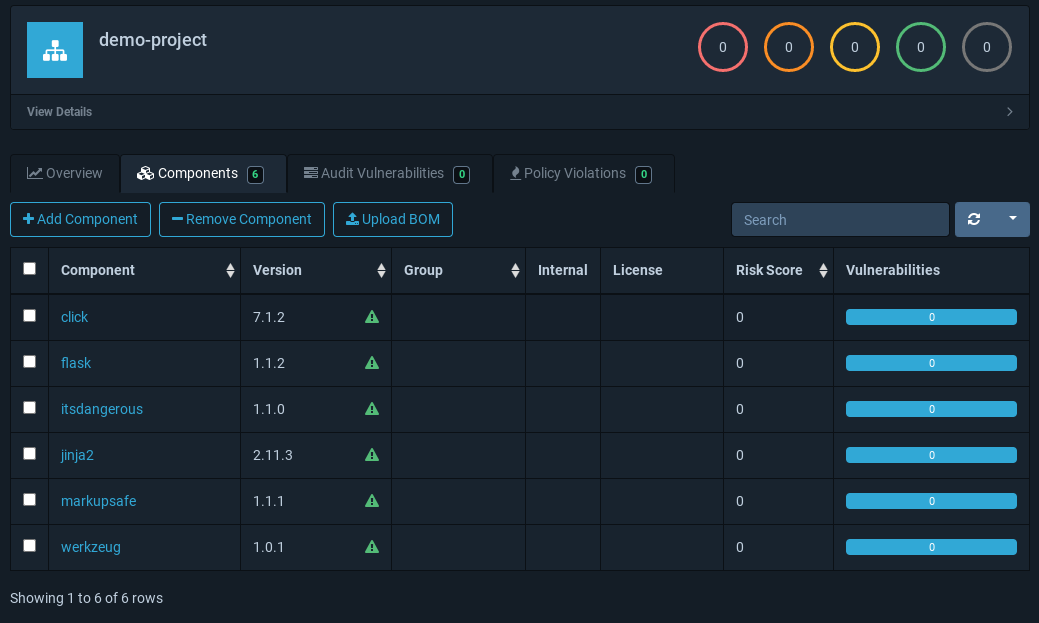
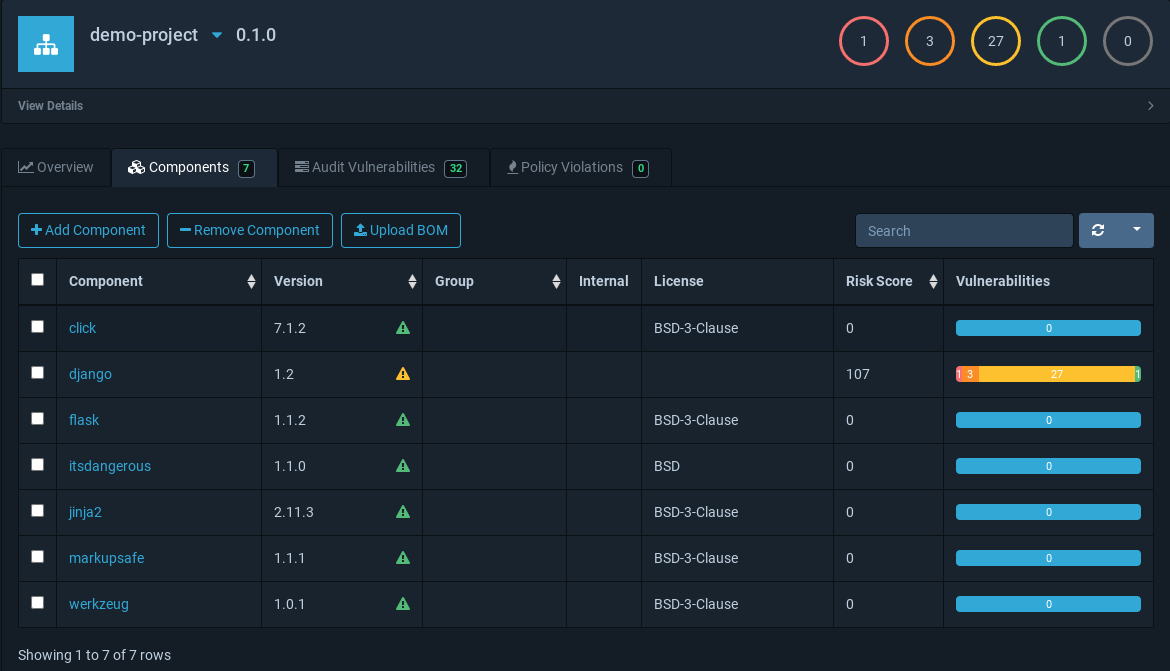
Improved the screenshots and refined the guide

diff --git a/tutorials/deploy-dependency-track/index.md b/tutorials/deploy-dependency-track/index.md
@@ -121,6 +121,7 @@ poetry install
 Now run `poetry show --tree` and you will see the project's set of dependencies (snippet below):
 
 ```
+django 1.2 A high-level Python Web framework that encourages rapid development and clean, pragmatic design.
 flask 1.1.2 A simple framework for building complex web applications.
 ├── click >=5.1
 ├── itsdangerous >=0.24
@@ -522,6 +523,11 @@ printf SET_DBUSER_PASSWORD_HERE | gcloud secrets create dependency-track-postgre
             --data-file=-
 ```
 
+__Note:__ _using the approach above is useful for this tutorial but placing a password
+on the command line is not best practice. Review the 
+[Creating and accessing secrets](https://cloud.google.com/secret-manager/docs/creating-and-accessing-secrets#secretmanager-add-secret-version-cli)
+guide for alternatives._
+
 We can now create the database server and associated user and database:
 
 ```bash
@@ -550,6 +556,9 @@ gcloud sql databases create dependency-track \
 # 4. We'll need the connection details in the kubernetes configuration
 export DT_DB_CONNECTION=$(gcloud sql instances describe $DT_DB_INSTANCE --format="value(connectionName)")
 ```
+
+__Note:__ _at time of writing, private IP for Cloud SQL is in beta and requires the
+`gcloud beta sql` call to access the functionality._
 
 The API Server will need the database user password so this is set up as a Kubernetes secret:
 
@@ -690,9 +699,22 @@ You can now click on the "Upload BOM" button and select the `bom.json` file for 
 
 When you return to the project screen you should see the components listed. If not,
 click on the refresh button to the right of the screen. Take some time to click around
-and explore the information.
+and explore the information. 
 
 ![Project screen with components listed](img/component_listing.png)
+
+The `django` component has a high risk score and seems to be the source 
+of several issues. If you click on the `django` link, you'll be taken to 
+the overview page for the component. Here you'll see that `django` 1.2
+has numerous known vulnerabilities: 1 Critical, 3 High, 27 Medium and 1 Low.
+
+![Project screen with components listed](img/component_listing_overview.png)
+
+Clicking on the `Vulnerabilities` tab will then take you to the listing for
+all the known component vulnerabilities. You can then click through to each 
+vulnerability (such as "CVE-2011-4137") to get further details about the vulnerability.
+
+![Project screen with components listed](img/component_listing_vulns.png)
 
 ### Uploading a BOM from the terminal
 
